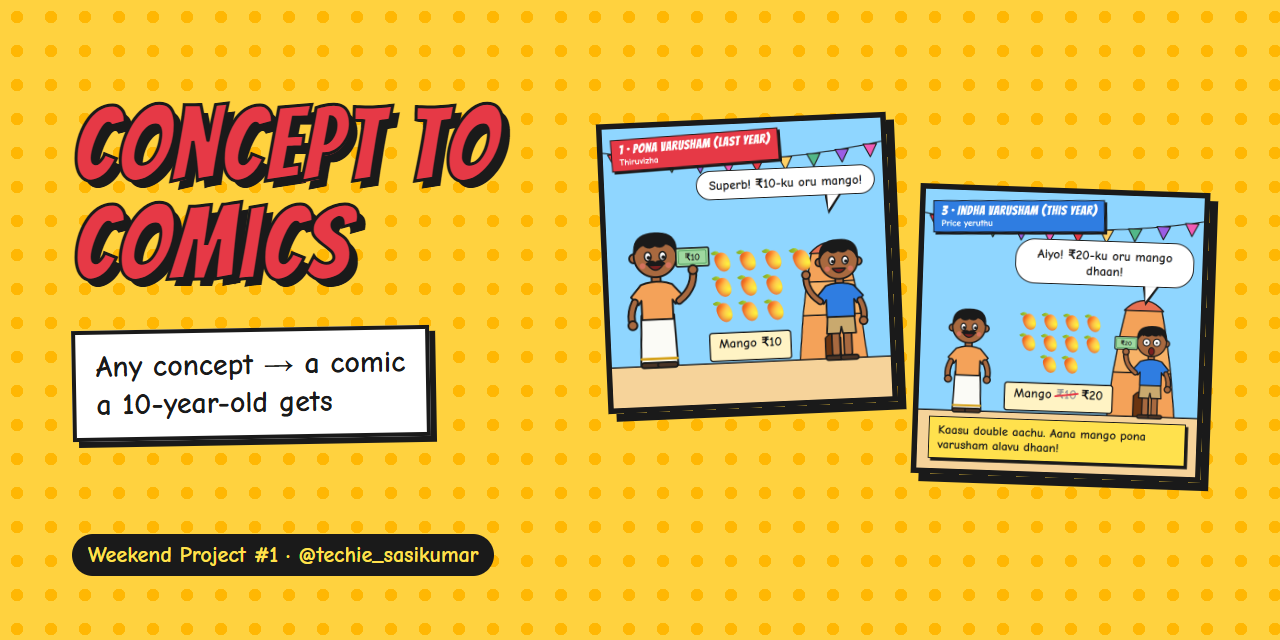
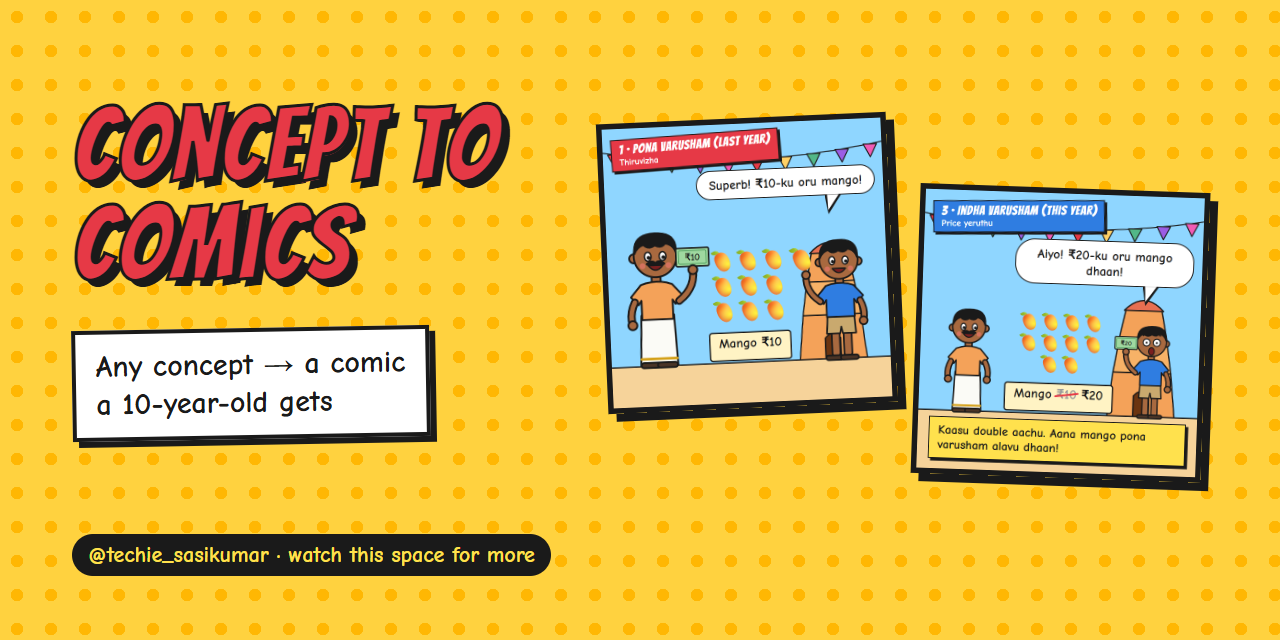
Drop weekly-series wording, use "watch this space"

Changed region(s): [[0.0625, 0.8125, 0.4375, 0.9062]]

diff --git a/README.md b/README.md
@@ -12,7 +12,7 @@ Ask "What is a JVM?", "What is inflation?" or "How do plants make food?" and get
 
 ![Demo: paste a script into the Comic Viewer and get a comic](assets/demo.gif)
 
-> 🗓 **Weekend Project #1** by [@techie_sasikumar](https://instagram.com/techie_sasikumar). A new AI build every weekend. Follow along!
+> 👀 **Watch this space!** Built by [@techie_sasikumar](https://instagram.com/techie_sasikumar). More free AI projects are coming from time to time, and you might find your next idea in one of them.
 
 ---
 
@@ -142,6 +142,6 @@ MIT. Use it, remix it, teach with it.
 
 ---
 
-Made with ❤ as Weekend Project #1 by [@techie_sasikumar](https://instagram.com/techie_sasikumar).
+Made with ❤ by [@techie_sasikumar](https://instagram.com/techie_sasikumar). More projects coming from time to time: watch this space!
 
 🚀 **Build your first app with AI** (live session) - coming soon! DM 'BUILD' on Instagram [@techie_sasikumar](https://instagram.com/techie_sasikumar) to join the waitlist.

diff --git a/CLAUDE.md b/CLAUDE.md
@@ -1,7 +1,8 @@
 # CLAUDE.md: Concept to Comics repo
 
 ## What this repo is
-A model-agnostic skill that turns any concept into a 3-5 panel kid-level comic using analogies from the reader's own culture. It is SK's "Weekend Project #1": free, open source, built to grow an audience for the weekly weekend-project series and the paid "Build your first app with AI" sessions.
+A model-agnostic skill that turns any concept into a 3-5 panel kid-level comic using analogies from the reader's own culture. It is SK's first public AI project: free, open source, built to grow an audience for future projects (shared from time to time, no fixed schedule) and the paid "Build your first app with AI" sessions.
+- Public wording: never promise a cadence ("every weekend", "weekly"). Use "watch this space" / "more projects from time to time".
 
 ## The product is SKILL.md
 - `SKILL.md` is the single source of truth. It must work BOTH as an Agent Skill AND when pasted as the first message into ChatGPT/Gemini.
